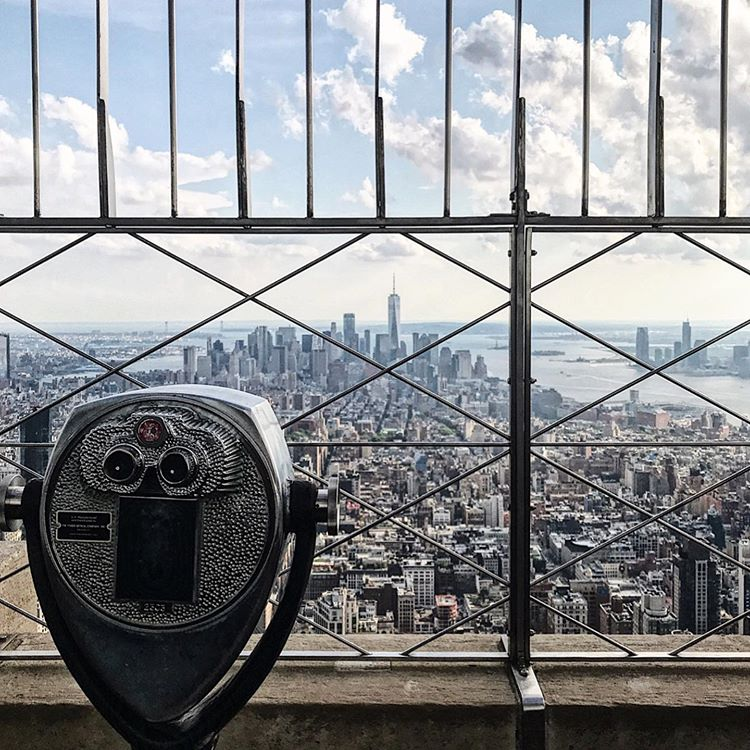
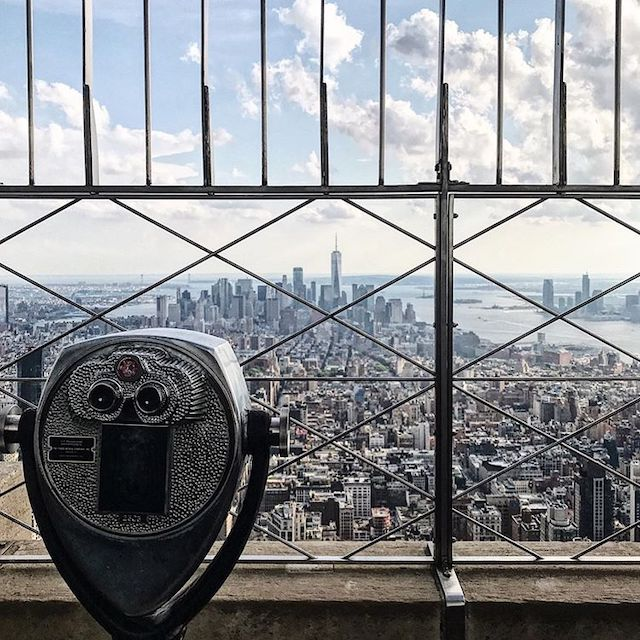
Resized carousel imgs Fixed typo

diff --git a/Home.html b/Home.html
@@ -115,7 +115,7 @@
         <p>
           For the majority of 2019, I was living and studying in New York City.
           Surprisingly, I had a good deal of free time.<br />
-          Here are a few snaps of where I vistied and what I got up to:<br />
+          Here are a few snaps of where I visited and what I got up to:<br />
         </p>
         <!-- IMAGE CAROUSEL WILL GO HERE -->
         <img
